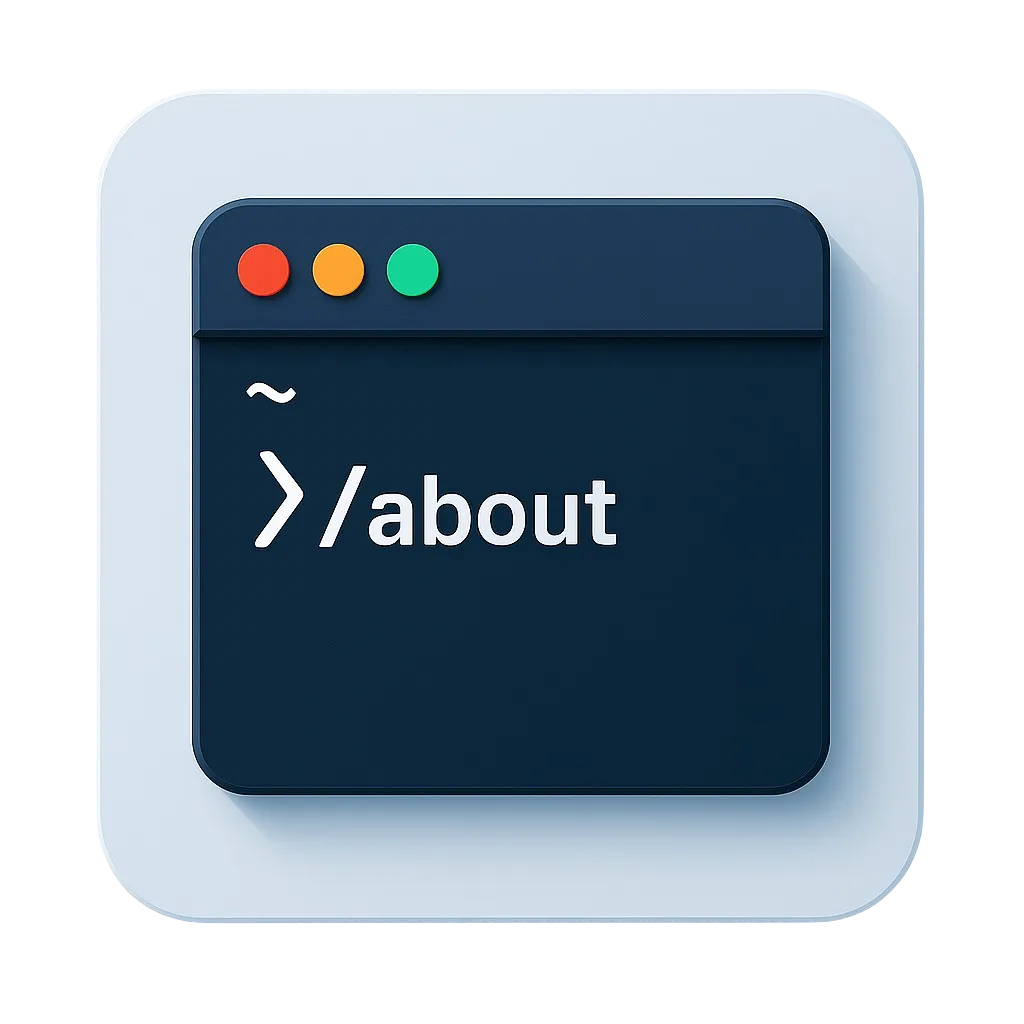
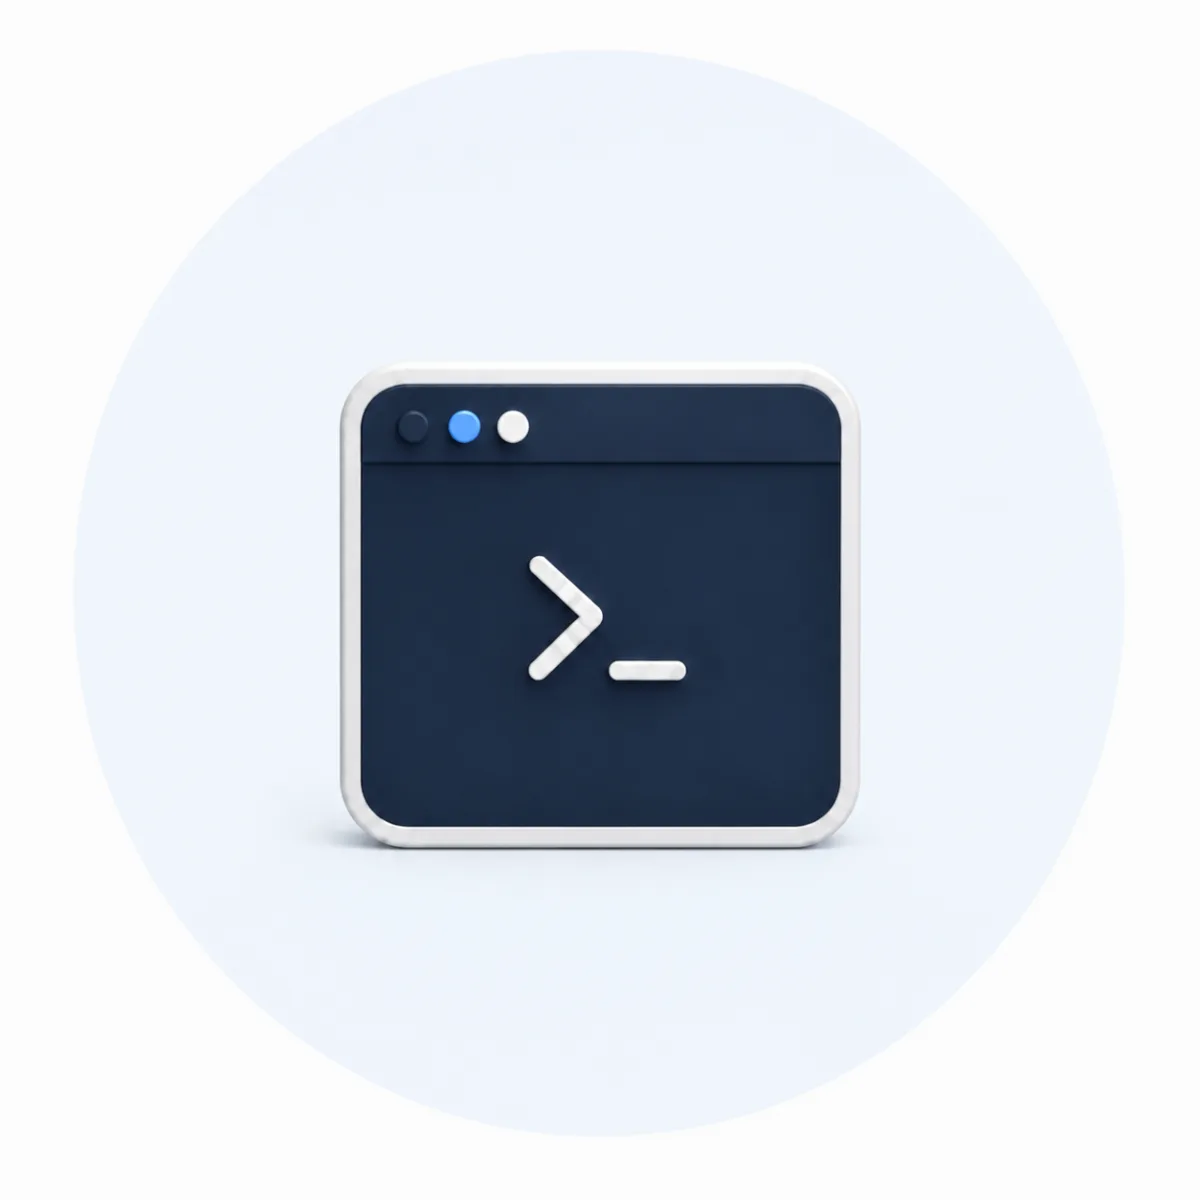
Refactor

diff --git a/templates/_about.html b/templates/_about.html
@@ -6,22 +6,41 @@
     class="section-card grid items-center gap-10 lg:gap-16 lg:grid-cols-[1fr,1.1fr]"
   >
     <!-- Left Side: Image -->
-    <div class="relative">
+    <div class="relative mx-auto w-full max-w-sm">
       <div
-        class="relative overflow-hidden rounded-3xl border border-slate-100 bg-gradient-to-br from-slate-50 to-white p-6 shadow-lg shadow-sky-100/40"
+        class="relative overflow-hidden rounded-3xl border border-slate-100 bg-gradient-to-br from-slate-50 to-white shadow-lg shadow-sky-100/40"
       >
         <div
           class="absolute inset-0 -z-10 bg-gradient-to-tr from-sky-100 via-transparent to-transparent blur-3xl"
         ></div>
-        <picture>
-          <source srcset="{{ url_for('static', filename='images/about.webp') }}" type="image/webp">
-          <img
-            alt="About Image"
-            class="w-full rounded-2xl border border-sky-100 object-cover shadow-md"
-            src="{{ url_for('static', filename='images/about.png') }}"
-            loading="lazy"
-          />
-        </picture>
+          <button
+            type="button"
+            id="about-image-toggle"
+            class="about-flip block aspect-square w-full rounded-2xl focus-visible:outline-none focus-visible:ring-4 focus-visible:ring-sky-300"
+            aria-label="Show portrait of Catalin Bota"
+            aria-pressed="false"
+          >
+            <span class="about-flip-inner relative block h-full w-full">
+              <img
+                alt="Developer terminal illustration"
+                class="about-flip-face collection-image absolute inset-0 h-full"
+                src="{{ url_for('static', filename='images/about.webp') }}"
+                width="1200"
+                height="1200"
+                decoding="async"
+                loading="lazy"
+              />
+              <img
+                alt="Portrait of Catalin Bota"
+                class="about-flip-face about-flip-back collection-image absolute inset-0 h-full"
+                src="{{ url_for('static', filename='images/me.webp') }}"
+                width="1024"
+                height="1024"
+                decoding="async"
+                loading="lazy"
+              />
+            </span>
+          </button>
       </div>
     </div>
 
@@ -125,3 +144,18 @@
     </div>
   </div>
 </section>
+
+<script>
+  const aboutImageToggle = document.getElementById('about-image-toggle');
+
+  if (aboutImageToggle) {
+    aboutImageToggle.addEventListener('click', () => {
+      const isFlipped = aboutImageToggle.classList.toggle('is-flipped');
+      aboutImageToggle.setAttribute('aria-pressed', String(isFlipped));
+      aboutImageToggle.setAttribute(
+        'aria-label',
+        isFlipped ? 'Show developer illustration' : 'Show portrait of Catalin Bota'
+      );
+    });
+  }
+</script>

diff --git a/templates/_hero.html b/templates/_hero.html
@@ -3,10 +3,10 @@
   id="hero"
 >
   <div
-    class="section-card grid items-center gap-10 lg:gap-16 lg:grid-cols-2"
+    class="section-card grid items-center gap-10 lg:grid-cols-[minmax(0,1fr)_minmax(0,1fr)] lg:gap-10 xl:gap-16"
   >
     <!-- Left Side: Intro Text -->
-    <div class="space-y-8 sm:space-y-10">
+    <div class="min-w-0 space-y-8 sm:space-y-10">
       <!-- Tags -->
       <div class="flex flex-wrap gap-3">
         <span
@@ -45,7 +45,7 @@
           <span class="text-sky-600">ideas</span> into
           <span class="text-sky-600">software</span> fellow engineers enjoy
           <i>maintaining</i>, people enjoy <i>using</i>, and computers can
-          <i>run</i> for a long time — ideally without catching fire.
+          <i>run</i> for a long time <i class="fa-solid fa-lightbulb"></i> ideally without catching fire.
         </p>
       </div>
 
@@ -82,22 +82,22 @@
     </div>
 
     <!-- Right Side: Image + Social Icons -->
-    <div class="relative flex flex-col items-center lg:items-end">
+    <div class="relative flex min-w-0 w-full flex-col items-center">
       <div
-        class="relative overflow-hidden rounded-3xl border border-slate-100 bg-gradient-to-br from-white to-slate-50 p-6 sm:p-8 lg:p-10 shadow-lg shadow-sky-100/50"
+        class="relative mx-auto w-full overflow-hidden rounded-3xl border border-slate-100 bg-gradient-to-br from-white to-slate-50 p-4 shadow-lg shadow-sky-100/50 sm:p-6 lg:p-8"
       >
         <div
           class="absolute inset-0 -z-10 bg-gradient-to-tr from-sky-100 via-transparent to-transparent blur-3xl"
         ></div>
-        <picture>
-          <source srcset="{{ url_for('static', filename='images/laptop.webp') }}" type="image/webp">
           <img
-            alt="Laptop Image"
-            class="mx-auto w-full max-w-sm rounded-2xl border border-sky-100 shadow-md"
-            src="{{ url_for('static', filename='images/laptop.png') }}"
-            loading="lazy"
+            alt="Modern software development workspace illustration"
+            class="collection-image mx-auto aspect-square"
+            src="{{ url_for('static', filename='images/laptop.webp') }}"
+            width="800"
+            height="800"
+            decoding="async"
+            fetchpriority="high"
           />
-        </picture>
       </div>
 
       <!-- Social Icons (Moved to Right Side) -->

diff --git a/templates/_projects.html b/templates/_projects.html
@@ -160,15 +160,15 @@
       <div class="grid gap-8 lg:gap-10 lg:grid-cols-2">
         <!-- Books -->
 <div class="project-card flex flex-col rounded-3xl border border-slate-100 bg-gradient-to-br from-slate-50 to-white p-6 sm:p-8 shadow-md shadow-sky-100/30 transition hover:-translate-y-1 hover:shadow-lg hover:shadow-sky-100/40">
-  <picture>
-    <source srcset="{{ url_for('static', filename='images/books.webp') }}" type="image/webp">
     <img
-      alt="Books"
-      src="{{ url_for('static', filename='images/books.png') }}"
-      class="aspect-[3/2] w-full rounded-2xl border border-sky-100 object-cover object-center shadow-sm"
+      alt="Published books illustration"
+      src="{{ url_for('static', filename='images/books.webp') }}"
+      class="collection-image aspect-square object-center"
+      width="1200"
+      height="1200"
+      decoding="async"
       loading="lazy"
     />
-  </picture>
   <div class="mt-6 flex flex-1 flex-col">
     <header>
       <h3 class="category-title text-2xl font-semibold text-slate-900">Books</h3>
@@ -223,15 +223,15 @@
         <div
           class="flex flex-col rounded-3xl border border-slate-100 bg-gradient-to-br from-slate-50 to-white p-6 sm:p-8 shadow-md shadow-sky-100/30 transition hover:-translate-y-1 hover:shadow-lg hover:shadow-sky-100/40"
         >
-          <picture>
-            <source srcset="{{ url_for('static', filename='images/blog.webp') }}" type="image/webp">
             <img
-              src="{{ url_for('static', filename='images/blog.png') }}"
-              alt="Blog"
-              class="aspect-[3/2] w-full rounded-2xl border border-sky-100 object-cover object-center shadow-sm"
+              src="{{ url_for('static', filename='images/blog.webp') }}"
+              alt="Technical writing and blog illustration"
+              class="collection-image aspect-square object-center"
+              width="1200"
+              height="1200"
+              decoding="async"
               loading="lazy"
             />
-          </picture>
           <div class="mt-6 flex flex-1 flex-col">
             <h4 class="category-title text-2xl font-semibold text-slate-900">Blog</h4>
             <p class="mt-3 text-sm text-slate-600">

diff --git a/templates/base.html b/templates/base.html
@@ -48,6 +48,32 @@
     .category-title {
       @apply pt-1;
     }
+    .collection-image {
+      @apply w-full rounded-2xl border border-sky-100/70 bg-white object-cover shadow-sm;
+    }
+    .about-flip {
+      perspective: 75rem;
+    }
+    .about-flip-inner {
+      transform-style: preserve-3d;
+      transition: transform 0.6s cubic-bezier(0.2, 0.75, 0.25, 1);
+    }
+    .about-flip.is-flipped .about-flip-inner {
+      transform: rotateY(180deg);
+    }
+    .about-flip-face {
+      backface-visibility: hidden;
+      -webkit-backface-visibility: hidden;
+    }
+    .about-flip-back {
+      transform: rotateY(180deg);
+    }
+
+    @media (prefers-reduced-motion: reduce) {
+      .about-flip-inner {
+        transition-duration: 0.01ms;
+      }
+    }
 
     @keyframes fadeIn {
       from {
@@ -107,7 +133,7 @@
   </nav>
 
   <!-- Main Content -->
-  <main class="mx-auto max-w-[68rem] space-y-4 px-4 py-4 sm:space-y-8 sm:px-6 sm:py-8">
+  <main class="mx-auto max-w-5xl space-y-4 px-5 py-4 sm:space-y-8 sm:px-8 sm:py-8">
     {% block content %}{% endblock %}
   </main>
 
